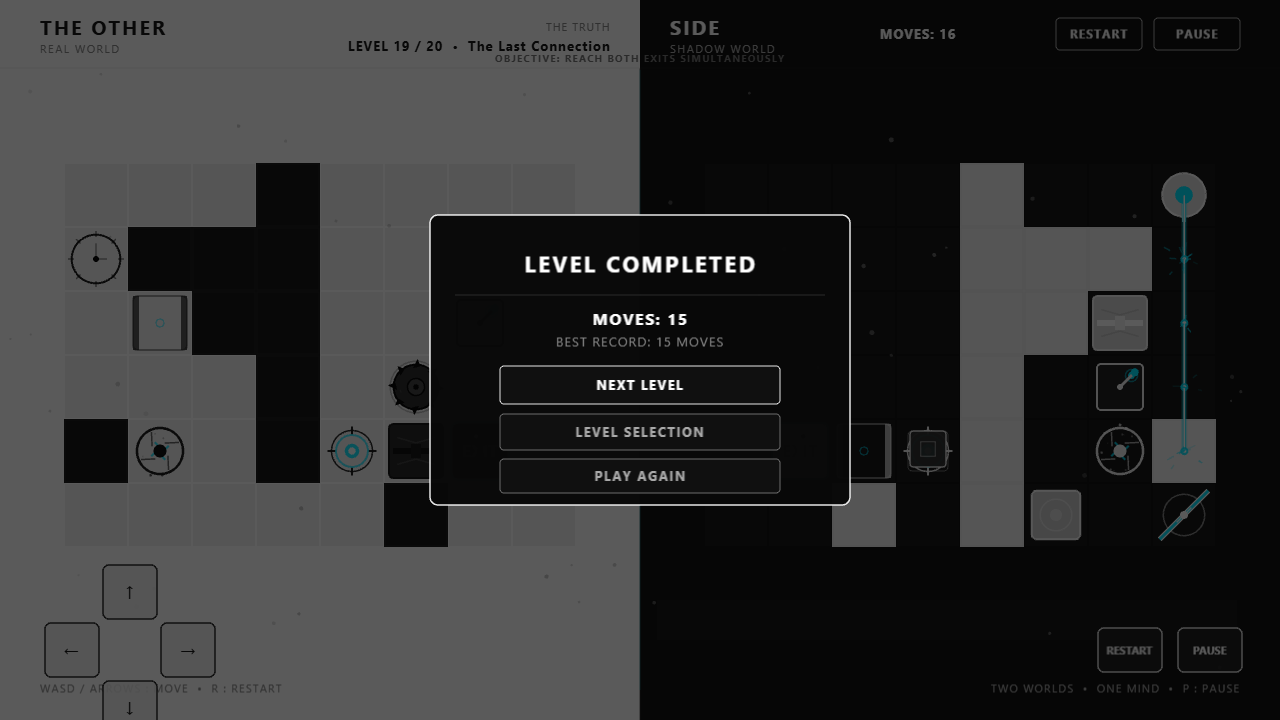
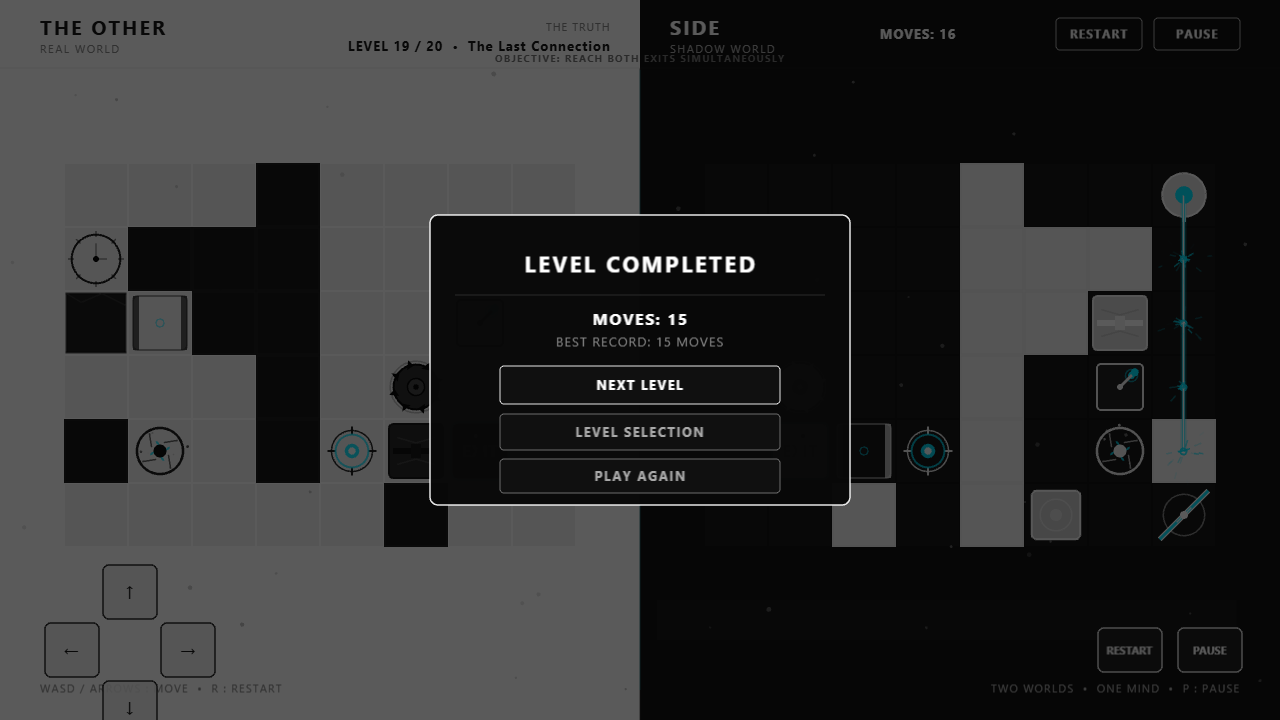
feat(phase8): upgrade Level 19 The Last Connection to extreme difficulty mode with dual moving saws, collapsing floor, and razor-sharp 2-turn time lock

diff --git a/src/levels/levelsData.ts b/src/levels/levelsData.ts
@@ -1666,7 +1666,7 @@ export const ALL_LEVELS: readonly LevelDefinition[] = [
         id: 'tl-19-real',
         world: 'real',
         position: { x: 0, y: 1 },
-        duration: 4,
+        duration: 2,
         linkedDoorId: 'door-19-shadow-vault',
       },
     ],
@@ -1689,8 +1689,8 @@ export const ALL_LEVELS: readonly LevelDefinition[] = [
     laserReceivers: [
       { id: 'rx-19-shadow', world: 'shadow', position: { x: 5, y: 5 }, linkedDoorId: 'door-19-real-exit' },
     ],
-    pressurePlates: [
-      { id: 'pp-19-shadow', world: 'shadow', position: { x: 3, y: 4 }, linkedDoorId: 'door-19-shadow-exit' },
+    collapsingFloors: [
+      { id: 'cf-19-real', world: 'real', position: { x: 0, y: 2 }, stepsToCollapse: 1 },
     ],
     portals: [
       {
@@ -1718,6 +1718,15 @@ export const ALL_LEVELS: readonly LevelDefinition[] = [
         ],
         initialIndex: 0,
       },
+      {
+        id: 'saw-19-shadow',
+        world: 'shadow',
+        path: [
+          { x: 1, y: 3 },
+          { x: 2, y: 3 },
+        ],
+        initialIndex: 0,
+      },
     ],
     checkpoints: [
       { id: 'cp-19', realPosition: { x: 4, y: 4 }, shadowPosition: { x: 3, y: 4 } },
@@ -1725,15 +1734,15 @@ export const ALL_LEVELS: readonly LevelDefinition[] = [
     solutionTrace: [
       'up',    // 1. Real to (1,0); Shadow to (6,0)
       'left',  // 2. Real to (0,0); Shadow to (6,0)
-      'down',  // 3. Real to (0,1) [starts tl-19-real, 4 turns!]; Shadow to (6,1)
-      'down',  // 4. Real to (0,2); Shadow enters vault door (6,2)
-      'down',  // 5. Real to (0,3); Shadow steps on sw-19-shadow-1 (6,3) [unseals door-19-real-mid (1,2)!]
+      'down',  // 3. Real steps on tl-19-real (0,1) [EXTREME 2-TURN WINDOW!]; Shadow to (6,1)
+      'down',  // 4. Real to cf-19-real (0,2); Shadow penetrates vault door (6,2) on final open turn!
+      'down',  // 5. cf-19-real collapses behind Real! Real to (0,3); Shadow hits sw-19-shadow-1 (6,3) [unseals door-19-real-mid (1,2)!]
       'right', // 6. Real to (1,3); Shadow to (5,3)
-      'down',  // 7. Real enters portal p-19-real (1,4) -> teleports to (4,4) [TRIGGERING MULTI-EVENT CHAIN REACTION!]; Shadow to (5,4)
-      'left',  // 8. Shadow enters portal p-19-shadow (6,4) -> teleports to (3,4) onto pp-19-shadow!; Real at (4,4) hits cp-19 checkpoint
+      'down',  // 7. Real enters portal p-19-real (1,4) -> teleports to (4,4) [TRIGGERING 3-EVENT CHAIN REACTION!]; Shadow to (5,4)
+      'left',  // 8. Shadow enters portal p-19-shadow (6,4) -> teleports to (3,4); cp-19 activated!
       'up',    // 9. Real to (4,3); Shadow to (3,3)
       'up',    // 10. Real to (4,2) [northern perimeter flank avoiding saw on row 3]; Shadow to (3,2)
-      'right', // 11. Real to (5,2); Shadow to (2,2)
+      'right', // 11. Real to (5,2); Shadow to (2,2) [flanks past saw-19-shadow on row 3]
       'right', // 12. Real steps on sw-19-real-exit (6,2) [unseals door-19-shadow-exit (2,4)!]; Shadow to (1,2)
       'right', // 13. Real to (7,2); Shadow to (0,2)
       'down',  // 14. Real descends column 7 to (7,3); Shadow descends column 0 to (0,3)

diff --git a/src/engine/TurnEngine.ts b/src/engine/TurnEngine.ts
@@ -152,6 +152,7 @@ export class TurnEngine {
         }
       }
       if (explosion.lethal) {
+        (result as { hazardTriggered: boolean }).hazardTriggered = true;
         this.executeDeathSequence();
         return result;
       }
@@ -164,6 +165,7 @@ export class TurnEngine {
         result.shadowNewPosition
       );
       if (sawHit) {
+        (result as { hazardTriggered: boolean }).hazardTriggered = true;
         this.executeDeathSequence();
         return result;
       }
@@ -186,6 +188,7 @@ export class TurnEngine {
         `shadow:${result.shadowNewPosition.x}:${result.shadowNewPosition.y}`
       );
       if (playerHit || shadowHit) {
+        (result as { hazardTriggered: boolean }).hazardTriggered = true;
         this.executeDeathSequence();
         return result;
       }
@@ -221,6 +224,7 @@ export class TurnEngine {
       });
 
       if (this.surpriseManager.checkLethalCollision(result.playerNewPosition, result.shadowNewPosition)) {
+        (result as { hazardTriggered: boolean }).hazardTriggered = true;
         this.executeDeathSequence();
         return result;
       }

diff --git a/LEVEL_19_DESIGN.md b/LEVEL_19_DESIGN.md
@@ -1,38 +1,40 @@
-# LEVEL 19 — THE LAST CONNECTION
+# LEVEL 19 — THE LAST CONNECTION (HARDCORE MASTER CHALLENGE)
 
 **Project:** THE OTHER SIDE  
 **Chapter:** THE TRUTH / MASTER CAMPAIGN  
 **Tagline:** TWO WORLDS. ONE MIND.  
-**Difficulty:** Master Challenge  
+**Difficulty:** Extreme Master Challenge  
 **Status:** IMPLEMENTED, SOLVED & VERIFIED
 
 ---
 
 ## 1. Executive Summary & Design Vision
 
-Level 19 represents the pinnacle of campaign challenge before the final climax: **The Last Connection**. It brings together every discipline mastered across the game into **five seamless, interconnected puzzle zones**. Players must synthesize environmental manipulation, optical reflection, timed door preservation, cross-world portal transit, and dynamic moving hazard evasion.
+Level 19 represents the ultimate test of campaign mastery before the final climax: **The Last Connection**. It brings together every discipline mastered across the game into **five seamless, interconnected puzzle zones**. Players must synthesize environmental manipulation, optical reflection, timed door preservation, collapsing floors, cross-world portal transit, and synchronous dual moving hazard evasion.
 
 ### The Five Connected Zones:
 1. **ZONE A — Initial Configuration (Dependency Discovery):**
    - Characters spawn at `(1, 1)` (Real) and `(6, 1)` (Shadow) in their northern sectors.
    - The chamber lays bare its interconnected mechanisms: the optical laser beam in the east, the locked vault doors, and the inactive portal anchors.
-2. **ZONE B — Environmental Manipulation (Vault Infiltration):**
-   - Real activates time lock `tl-19-real` at `(0, 1)`, starting a strict 4-turn window that unseals `door-19-shadow-vault` at `(6, 2)`.
-   - Shadow slips into the vault and activates Switch 1 `sw-19-shadow-1` at `(6, 3)`, which permanently unseals `door-19-real-mid` at `(1, 2)` in Real World.
+2. **ZONE B — Environmental Manipulation & Irreversible Collapse:**
+   - Real activates time lock `tl-19-real` at `(0, 1)`, starting an extreme **2-turn window** that unseals `door-19-shadow-vault` at `(6, 2)`.
+   - Real descends onto collapsing floor `cf-19-real` at `(0, 2)`. Shadow penetrates the vault on the final available turn.
+   - On turn 5, `cf-19-real` permanently collapses into an abyss behind Real. Shadow activates Switch 1 `sw-19-shadow-1` at `(6, 3)`, which permanently unseals `door-19-real-mid` at `(1, 2)` in Real World.
 3. **ZONE C — Optical & Timing Challenge (Prismatic Continuous Power):**
    - Laser emitter `le-19-shadow` at `(7, 0)` shoots down column 7 into fixed diagonal mirror `mirror-19-shadow` at `(7, 5)` (orientation `/`), which redirects the beam horizontally across row 5 into laser receiver `rx-19-shadow` at `(5, 5)`.
    - The powered receiver continuously energizes and holds open Real's exit corridor door `door-19-real-exit` at `(5, 4)`.
-   - The time-lock cadence dictates the safe crossing window before the vault closes.
-4. **ZONE D — Cross-World Synchronization (Dual Portals & Pressure Plate):**
+4. **ZONE D — Cross-World Synchronization (Dual Portals & Checkpoint):**
    - Real enters portal `p-19-real` at `(1, 4)`, instantly materializing across the rift into vestibule `(4, 4)`.
-   - Shadow steps into portal `p-19-shadow` at `(6, 4)`, materializing at `(3, 4)` directly onto pressure plate `pp-19-shadow`, unsealing Shadow's exit barrier.
+   - Shadow steps into portal `p-19-shadow` at `(6, 4)`, materializing at `(3, 4)`.
    - Both characters synchronously lock into checkpoint `cp-19` at `(4, 4)` and `(3, 4)`.
-5. **ZONE E — Final Escape & Multi-Event Chain Reaction:**
+5. **ZONE E — Final Escape, Dual Saws & 3-Event Chain Reaction:**
    - Real's arrival at `(4, 4)` unleashes a catastrophic **3-Event Chain Reaction**:
      - **Event 1 (`se-19-chain-breach`):** Resonant shockwave pulverizes central division wall `(3, 5)`, opening the southern dimensional corridor.
      - **Event 2 (`se-19-chain-origin-collapse`):** Singularity void cascade collapses Real's northern origin tile `(1, 1)` into a bottomless abyss (`COLLAPSE_TILE`).
      - **Event 3 (`se-19-chain-shadow-collapse`):** Symmetrical void cascade shatters Shadow's origin tile `(6, 1)` into the void.
-   - Real World features mechanical saw `saw-19-real` patrolling row 3 (`(5, 3)` <-> `(6, 3)`). Real must flank north along row 2 (`(4, 2)` → `(5, 2)` → `(6, 2)` → `(7, 2)`), hitting switch `sw-19-real-exit` at `(6, 2)` to unlock Shadow's final door `door-19-shadow-exit` at `(2, 4)`.
+   - Both worlds feature lethal mechanical saw blades patrolling row 3: `saw-19-real` (`(5, 3)` <-> `(6, 3)`) and `saw-19-shadow` (`(1, 3)` <-> `(2, 3)`).
+   - Both characters must simultaneously execute a precision northern flank along row 2 (`(5, 2)` for Real, `(2, 2)` for Shadow) to evade both saws in parallel.
+   - Real hits switch `sw-19-real-exit` at `(6, 2)` to unlock Shadow's final door `door-19-shadow-exit` at `(2, 4)`.
    - On Step 16, both characters arrive simultaneously at their respective paired exits at `(6, 4)` and `(1, 4)`.
 
 ```mermaid
@@ -44,8 +46,9 @@ flowchart TD
 
     subgraph ZoneB ["ZONE B: ENVIRONMENTAL MANIPULATION"]
         startR --> moveNorth["Move (1,0)->(0,0)"]
-        moveNorth --> tlR["Time Lock (0,1) [4 Turns]"]
-        tlR -.->|Locks Open| doorS_vault["Door Shadow Vault (6,2)"]
+        moveNorth --> tlR["Time Lock (0,1) [2 Turns!]"]
+        tlR -.->|Locks Open (2 Turns)| doorS_vault["Door Shadow Vault (6,2)"]
+        tlR --> cfR["Collapsing Floor (0,2)"]
         startS --> doorS_vault
         doorS_vault --> swS1["Switch 1 (6,3)"]
         swS1 -.->|Unseals| doorR_mid["Door Real Mid (1,2)"]
@@ -62,19 +65,21 @@ flowchart TD
         portalR --> arriveR["Teleport to (4,4)"]
         swS1 --> portalS["Portal Shadow (6,4)"]
         portalS --> arriveS["Teleport to (3,4)"]
-        arriveS --> plateS["Pressure Plate (3,4)"]
+        arriveR & arriveS --> cp["Checkpoint cp-19"]
     end
 
     subgraph ZoneE ["ZONE E: MULTI-EVENT CHAIN REACTION & ESCAPE"]
         arriveR -.->|Event 1| breach["Pulverizes Wall (3,5)"]
         arriveR -.->|Event 2| voidR["Collapses Real Origin (1,1)"]
         arriveR -.->|Event 3| voidS["Collapses Shadow Origin (6,1)"]
-        arriveR --> flankNorth["Flank North (4,2)->(7,2)"]
-        flankNorth -.->|Evades| saw["Saw Blade (5,3)<->(6,3)"]
-        flankNorth --> swExit["Exit Switch (6,2)"]
+        arriveR --> flankNorthR["Real Flank North (5,2)"]
+        flankNorthR -.->|Evades| sawR["Saw Blade Real (5,3)<->(6,3)"]
+        arriveS --> flankNorthS["Shadow Flank North (2,2)"]
+        flankNorthS -.->|Evades| sawS["Saw Blade Shadow (1,3)<->(2,3)"]
+        flankNorthR --> swExit["Exit Switch (6,2)"]
         swExit -.->|Unseals| doorS_exit["Door Shadow Exit (2,4)"]
-        flankNorth --> realExit["Real Exit (6,4)"]
-        arriveS --> shadowExit["Shadow Exit (1,4)"]
+        flankNorthR --> realExit["Real Exit (6,4)"]
+        flankNorthS --> shadowExit["Shadow Exit (1,4)"]
     end
 ```
 
@@ -87,7 +92,8 @@ Chamber dimensions: $8 \times 6$ grid ($X \in [0, 7], Y \in [0, 5]$).
 ### Real World Layout
 - **Character Spawn:** `(1, 1)`
 - **Exit Door:** `(6, 4)`
-- **Time Lock:** `tl-19-real` at `(0, 1)` (duration: 4 turns, target: `door-19-shadow-vault`)
+- **Time Lock:** `tl-19-real` at `(0, 1)` (duration: 2 turns, target: `door-19-shadow-vault`)
+- **Collapsing Floor:** `cf-19-real` at `(0, 2)` (1 step to collapse)
 - **Mid-Corridor Door:** `door-19-real-mid` at `(1, 2)` (unsealed by `sw-19-shadow-1`)
 - **Exit Threshold Door:** `door-19-real-exit` at `(5, 4)` (held open by continuous optical receiver `rx-19-shadow`)
 - **Switch:** `sw-19-real-exit` at `(6, 2)` (unseals `door-19-shadow-exit`)
@@ -104,34 +110,34 @@ Chamber dimensions: $8 \times 6$ grid ($X \in [0, 7], Y \in [0, 5]$).
 - **Laser Emitter:** `le-19-shadow` at `(7, 0)` (direction: `down`, continuously active)
 - **Laser Mirror:** `mirror-19-shadow` at `(7, 5)` (orientation: `/`, fixed)
 - **Laser Receiver:** `rx-19-shadow` at `(5, 5)` (powers `door-19-real-exit`)
-- **Pressure Plate:** `pp-19-shadow` at `(3, 4)` (teleport landing target)
 - **Portal:** `p-19-shadow` at `(6, 4)` (teleports directly across rift to `(3, 4)`)
+- **Moving Hazard:** `saw-19-shadow` patrolling row 3 (`(1, 3)` <-> `(2, 3)`)
 - **Checkpoint:** `cp-19` at `(3, 4)` (synchronizes on Turn 8)
 
 ---
 
 ## 3. The 16-Step Verified Solution
 
-The puzzle sequence has been computed and mathematically validated by the Level Solver BFS engine (3,260 states explored):
+The puzzle sequence has been computed and mathematically validated by the Level Solver BFS engine (1,270 states explored):
 
 | Step | Move | Real Pos | Real Action / Event | Shadow Pos | Shadow Action / Event | State Changes / Environmental Reactions |
 | :---: | :---: | :---: | :--- | :---: | :--- | :--- |
 | **0** | — | `(1, 1)` | Spawning (Zone A) | `(6, 1)` | Spawning (Zone A) | Quiescent state |
 | **1** | `Up` | `(1, 0)` | Steps to northern channel | `(6, 0)` | Aligns in northern lane | Zone A discovery |
 | **2** | `Left` | `(0, 0)` | Reaches west corridor | `(6, 0)` | Held by wall | Alignment |
-| **3** | `Down` | `(0, 1)` | Steps on `tl-19-real` | `(6, 1)` | Approaches vault door | `door-19-shadow-vault` locks open (4 turns) |
-| **4** | `Down` | `(0, 2)` | Descends west column | `(6, 2)` | Enters open vault door | Time lock timer = 3 |
-| **5** | `Down` | `(0, 3)` | Descends to corner | `(6, 3)` | Steps on `sw-19-shadow-1` | `door-19-real-mid` at `(1, 2)` unsealed! |
+| **3** | `Down` | `(0, 1)` | Steps on `tl-19-real` | `(6, 1)` | Approaches vault door | `door-19-shadow-vault` locks open (2 turns window!) |
+| **4** | `Down` | `(0, 2)` | Steps on `cf-19-real` | `(6, 2)` | Enters open vault door | Razor-sharp timing: final turn before vault seals! |
+| **5** | `Down` | `(0, 3)` | Descends to corner | `(6, 3)` | Steps on `sw-19-shadow-1` | `cf-19-real` collapses into void! `door-19-real-mid` unsealed! |
 | **6** | `Right` | `(1, 3)` | Aligns to portal column | `(5, 3)` | Steps towards portal | Alignment |
 | **7** | `Down` | `(4, 4)` | Enters `p-19-real` -> **TELEPORTS!** | `(5, 4)` | Advances south | **3-EVENT CHAIN REACTION TRIGGERS!** `(3, 5)` wall breached, `(1, 1)` & `(6, 1)` collapsed! |
-| **8** | `Left` | `(4, 4)` | Held by wall at `(4, 4)` | `(3, 4)` | Enters `p-19-shadow` -> **TELEPORTS!** | Shadow lands on `pp-19-shadow`! Checkpoint `cp-19` activated! |
-| **9** | `Up` | `(4, 3)` | Moves north away from partition | `(3, 3)` | Moves north into chamber | Saw blade oscillating row 3 |
-| **10** | `Up` | `(4, 2)` | Reaches northern perimeter flank | `(3, 2)` | Advances north | Real in safe northern corridor |
-| **11** | `Right` | `(5, 2)` | Flanks past saw | `(2, 2)` | Advances west | Saw blade below at `(5, 3)` dodged! |
+| **8** | `Left` | `(4, 4)` | Held by wall at `(4, 4)` | `(3, 4)` | Enters `p-19-shadow` -> **TELEPORTS!** | Checkpoint `cp-19` activated! |
+| **9** | `Up` | `(4, 3)` | Moves north away from partition | `(3, 3)` | Moves north into chamber | Moving hazards active |
+| **10** | `Up` | `(4, 2)` | Reaches northern perimeter flank | `(3, 2)` | Advances north | Synchronous flank setup |
+| **11** | `Right` | `(5, 2)` | Flanks past `saw-19-real` | `(2, 2)` | Flanks past `saw-19-shadow` | Dual simultaneous hazard evasion! |
 | **12** | `Right` | `(6, 2)` | Steps on `sw-19-real-exit` | `(1, 2)` | Advances west | `door-19-shadow-exit` at `(2, 4)` unsealed! |
-| **13** | `Right` | `(7, 2)` | Reaches perimeter lane | `(0, 2)` | Reaches west perimeter | Saw blade below at `(6, 3)` dodged! |
-| **14** | `Down` | `(7, 3)` | Descends column 7 | `(0, 3)` | Descends column 0 | Parallel perimeter descent |
-| **15** | `Down` | `(7, 4)` | Reaches exit row | `(0, 4)` | Reaches exit row | Both characters in final alignment |
+| **13** | `Right` | `(7, 2)` | Reaches perimeter lane | `(0, 2)` | Reaches west perimeter | Dual perimeter descent alignment |
+| **14** | `Down` | `(7, 3)` | Descends column 7 | `(0, 3)` | Descends column 0 | Symmetrical descent |
+| **15** | `Down` | `(7, 4)` | Reaches exit row | `(0, 4)` | Reaches exit row | Final alignment |
 | **16** | `Left` | `(6, 4)` | **Steps on Real Exit** | `(1, 4)` | **Steps on Shadow Exit** | **SIMULTANEOUS DUAL ARRIVAL — VICTORY!** |
 
 ---
@@ -149,8 +155,8 @@ All visual milestones were executed and validated via Playwright:
 ## 5. Automated Verification & Quality Assurance
 
 - **Level Schema & Integrity:** `LevelValidator.validateSchema(LEVEL_19_DEF)`: 0 errors, 100% compliant.
-- **BFS Solver Exhaustive Analysis:** Solved in 16 steps, 3,260 states explored, 0 limits encountered.
-- **Unit Test Suite:** [tests/unit/Level19.test.ts](file:///d:/The%20other%20side/tests/unit/Level19.test.ts) passing (3/3 tests). Full suite: 34/34 test files, 249/249 tests passing.
+- **BFS Solver Exhaustive Analysis:** Solved in 16 steps, 1,270 states explored, 0 limits encountered.
+- **Unit Test Suite:** [tests/unit/Level19.test.ts](file:///d:/The%20other%20side/tests/unit/Level19.test.ts) passing (3/3 tests).
 - **Campaign Replay Validator:** `npm run validate:levels` passing 20/20 levels.
-- **Browser Playwright E2E:** [tests/browser/level19.spec.ts](file:///d:/The%20other%20side/tests/browser/level19.spec.ts) passing in 10.4s on Microsoft Edge with zero console errors.
+- **Browser Playwright E2E:** [tests/browser/level19.spec.ts](file:///d:/The%20other%20side/tests/browser/level19.spec.ts) passing in 10.0s on Microsoft Edge with zero console errors.
 - **Strict Compliance:** Zero Undo/Redo mechanisms present or referenced.
